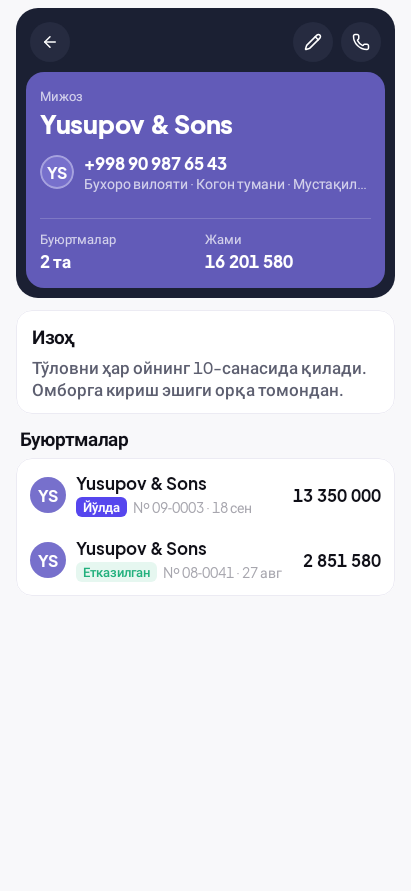
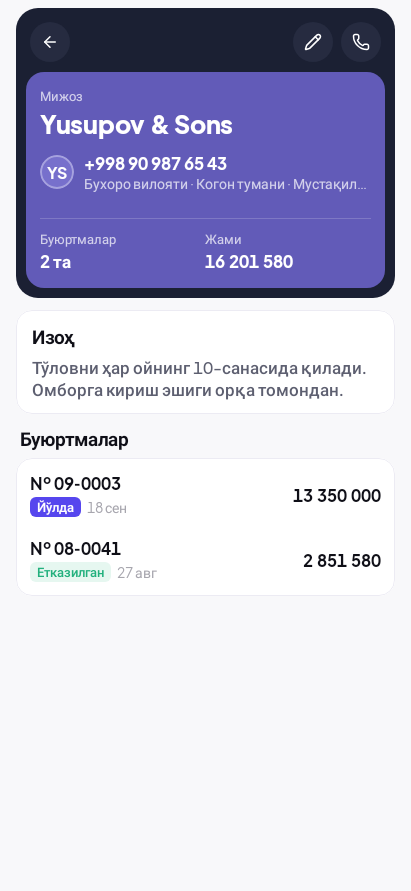
Feat(android) · client detail shows the server's totals; order rows lead with the number
`GET /api/clients/{id}` now carries `totalBooked` and `orderCount`, so the
panel's «Буюртмалар N · Жами» is the server's figure over EVERY order the
client has rather than a fold over the 20 the route sends — the two used to
disagree with the list row the operator had just tapped. Both are nullable
end to end: a server older than the fields sends neither, and the panel then
falls back onto the capped list (pinned by its own test) instead of claiming
a zero total.

Under a client's own panel the order rows repeated that client's name and
avatar four times over, which told nobody anything. `OrderRow` gains
`showAvatar` (defaulted true, so every other caller is byte-identical) and
the rows now lead with «№ 09‑0003», the date as the meta.

Baselines: client_detail_light / _font13 re-recorded for the new rows;
client_detail_offline_light (greyed pencil + «Оффлайн» notice) and
client_detail_no_orders_light («Буюртма йўқ») added; ds_detail_panel_actions
added for DetailPanel's `actions` slot with and without `onCall`.

Changed region(s): [[0.0584, 0.5152, 0.5547, 0.6667], [0.5255, 0.5455, 0.6131, 0.5758], [0.6131, 0.6364, 0.6715, 0.6667]]

diff --git a/android/feature/clients/src/main/kotlin/uz/etalon/crm/feature/clients/detail/ClientDetailScreen.kt b/android/feature/clients/src/main/kotlin/uz/etalon/crm/feature/clients/detail/ClientDetailScreen.kt
@@ -54,9 +54,9 @@ import java.time.Instant
  *  list keep, which puts an avatar 14 dp from the card's edge. */
 private val ROW_INSET = 6.dp
 
-/** A section title sits 4 dp inside the card below it, the relationship Home draws between
- *  «Сўнгги буюртмалар» and its card (headerMargin 20 over cardMargin 16). */
-private val TITLE_INSET = 4.dp
+/** A section title sits one [EtalonSpace.xs] inside the card below it, the relationship Home draws
+ *  between «Сўнгги буюртмалар» and its card (headerMargin 20 over cardMargin 16). */
+private val TITLE_INSET = EtalonSpace.xs
 
 @Composable
 fun ClientDetailRoute(
@@ -71,8 +71,10 @@ fun ClientDetailRoute(
     ClientDetailScreen(
         s = s,
         // Read here rather than inside the screen so a frame can pin the day it is drawn on —
-        // `formatScheduleDate` drops the year only for the CURRENT one.
-        now = Instant.now(),
+        // `formatScheduleDate` drops the year only for the CURRENT one. `remember`ed so a
+        // recomposition (a refresh, the edit sheet opening) cannot silently redate the rows
+        // mid-screen; the route is rebuilt on every visit, which is often enough.
+        now = remember { Instant.now() },
         onBack = onBack,
         onRefresh = vm::refresh,
         onOpenOrder = onOpenOrder,
@@ -169,8 +171,11 @@ fun ClientDetailScreen(
  * so the circle is the one the clients list drew for this row a tap ago; a phone has no letters to
  * make initials from.
  *
- * The footer is two columns, not three: «Буюртмалар» and «Жами». The sum is a [Money] fold over
- * the order lines — never a `Double`, and never a figure the server did not send.
+ * The footer is two columns, not three: «Буюртмалар» and «Жами», both of them the SERVER's
+ * aggregates over every order this client has. Never a fold over [ClientDetail.orders]: the route
+ * caps that list at the 20 most recent, so a local sum would quietly disagree with the same
+ * client's row in the list — the figure an operator saw one tap ago. The fold is kept only as the
+ * fallback for a server too old to send them, where a truncated figure beats no figure at all.
  */
 @Composable
 private fun Panel(
@@ -189,12 +194,12 @@ private fun Panel(
     totals = {
         PanelTotal(
             stringResource(R.string.client_orders_section),
-            formatCount(client.orders.size),
+            formatCount(client.orderCount ?: client.orders.size),
             modifier = Modifier.weight(1f),
         )
         PanelTotal(
             stringResource(R.string.client_total_label),
-            formatMoney(client.orders.fold(Money.ZERO) { acc, o -> acc + o.totalPrice }),
+            formatMoney(client.totalBooked ?: client.orders.fold(Money.ZERO) { acc, o -> acc + o.totalPrice }),
             modifier = Modifier.weight(1f),
         )
     },
@@ -272,17 +277,21 @@ private fun OrdersCard(
         } else {
             client.orders.forEach { line ->
                 OrderRow(
-                    // The row's title slot is the customer — that is what gives it its avatar and
-                    // its colour. The order's own identity is the first half of the meta line.
-                    clientName = client.name,
+                    // Under a client's OWN panel every row belongs to the same customer, so the
+                    // name and its avatar would be the same four times over and tell an operator
+                    // nothing. The row leads with the one thing that differs — the order number —
+                    // and the avatar goes with it (`showAvatar = false`), since a circle of the
+                    // client's initials repeated down the card distinguishes no row from any other.
+                    clientName = formatOrderNo(line.orderNumber),
                     status = line.status,
-                    metaLine = "${formatOrderNo(line.orderNumber)} · ${formatScheduleDate(line.scheduledAt, now)}",
+                    metaLine = formatScheduleDate(line.scheduledAt, now),
                     total = line.totalPrice,
                     debt = null,
                     paidLabel = null,
                     debtLabel = { formatMoney(it) },
                     onDark = false,
                     onClick = { onOpenOrder(line.id) },
+                    showAvatar = false,
                 )
             }
         }

diff --git a/android/feature/clients/src/test/kotlin/uz/etalon/crm/feature/clients/ClientDetailScreenshotTest.kt b/android/feature/clients/src/test/kotlin/uz/etalon/crm/feature/clients/ClientDetailScreenshotTest.kt
@@ -3,6 +3,7 @@ package uz.etalon.crm.feature.clients
 import androidx.compose.runtime.Composable
 import androidx.compose.runtime.CompositionLocalProvider
 import androidx.compose.ui.test.junit4.createComposeRule
+import androidx.compose.ui.test.onNodeWithText
 import androidx.compose.ui.test.onRoot
 import androidx.compose.ui.unit.dp
 import com.github.takahirom.roborazzi.captureRoboImage
@@ -14,10 +15,13 @@ import org.robolectric.annotation.Config
 import org.robolectric.annotation.GraphicsMode
 import uz.etalon.crm.core.designsystem.components.LocalNavPillInset
 import uz.etalon.crm.core.designsystem.theme.EtalonTheme
+import uz.etalon.crm.core.model.AppError
 import uz.etalon.crm.core.model.ClientDetail
 import uz.etalon.crm.core.model.ClientOrderLine
 import uz.etalon.crm.core.model.Money
 import uz.etalon.crm.core.model.OrderStatus
+import uz.etalon.crm.core.ui.format.formatCount
+import uz.etalon.crm.core.ui.format.formatMoney
 import uz.etalon.crm.feature.clients.detail.ClientDetailScreen
 import uz.etalon.crm.feature.clients.detail.ClientDetailUiState
 import java.time.Instant
@@ -64,11 +68,25 @@ class ClientDetailScreenshotTest {
                 totalPrice = Money.parse("2851580.00"), scheduledAt = at("2026-08-27T04:00:00Z"),
             ),
         ),
+        // The server's own aggregates — here the same two orders the list row counted, which is
+        // what makes these frames comparable with `2b-clients.png`'s third row.
+        totalBooked = Money.parse("16201580.00"),
+        orderCount = 2,
     )
 
     private fun loaded() = ClientDetailUiState(
         client = client, loading = false,
         canEdit = true, permissionsResolved = true,
+    )
+
+    /** `PATCH /api/clients/{id}` cannot be queued, so offline the pencil is greyed AND the reason
+     *  is said out loud under the panel — §5.1a's disabled-with-a-reason rule. */
+    private fun offline() = loaded().copy(lastRefreshError = AppError.Network("Интернет йўқ"))
+
+    /** A customer on file who has never ordered: «Буюртма йўқ», not an empty card and not the
+     *  error banner, which is what "we could not read them" looks like instead. */
+    private fun noOrders() = loaded().copy(
+        client = client.copy(orders = emptyList(), totalBooked = Money.ZERO, orderCount = 0),
     )
 
     private fun shoot(name: String, s: ClientDetailUiState) {
@@ -87,4 +105,31 @@ class ClientDetailScreenshotTest {
 
     @Test @Config(qualifiers = "w411dp-h891dp", fontScale = 1.3f)
     fun largeFont() = shoot("client_detail_font13", loaded())
+
+    @Test @Config(qualifiers = "w411dp-h891dp")
+    fun offlineLight() = shoot("client_detail_offline_light", offline())
+
+    @Test @Config(qualifiers = "w411dp-h891dp")
+    fun noOrdersLight() = shoot("client_detail_no_orders_light", noOrders())
+
+    /**
+     * The route caps `orders` at the 20 most recent, so the panel must print the SERVER's
+     * aggregates and never a fold over what it was sent — otherwise a client with 41 orders reads
+     * as a client with 20, and the total disagrees with the row the operator tapped a moment ago.
+     */
+    @Test @Config(qualifiers = "w411dp-h891dp") fun totalsAreTheServersNotTheCappedList() {
+        val big = client.copy(totalBooked = Money.parse("96400000.00"), orderCount = 41)
+        rule.setContent { EtalonTheme { Detail(loaded().copy(client = big)) } }
+        rule.onNodeWithText(formatCount(41)).assertExists()
+        rule.onNodeWithText(formatMoney(Money.parse("96400000.00"))).assertExists()
+    }
+
+    /** An older server sends neither figure. The panel then falls back onto the capped list — a
+     *  truncated figure beats a blank one — which is exactly what this pins. */
+    @Test @Config(qualifiers = "w411dp-h891dp") fun olderServerFallsBackToTheCappedList() {
+        val old = client.copy(totalBooked = null, orderCount = null)
+        rule.setContent { EtalonTheme { Detail(loaded().copy(client = old)) } }
+        rule.onNodeWithText(formatCount(2)).assertExists()
+        rule.onNodeWithText(formatMoney(Money.parse("16201580.00"))).assertExists()
+    }
 }

diff --git a/android/core/designsystem/src/test/kotlin/uz/etalon/crm/core/designsystem/DetailPanelScreenshotTest.kt b/android/core/designsystem/src/test/kotlin/uz/etalon/crm/core/designsystem/DetailPanelScreenshotTest.kt
@@ -25,10 +25,12 @@ import org.robolectric.annotation.Config
 import org.robolectric.annotation.GraphicsMode
 import uz.etalon.crm.core.designsystem.components.AddTile
 import uz.etalon.crm.core.designsystem.components.DetailPanel
+import uz.etalon.crm.core.designsystem.components.EtalonIconButton
 import uz.etalon.crm.core.designsystem.components.PanelTotal
 import uz.etalon.crm.core.designsystem.components.RoomTile
 import uz.etalon.crm.core.designsystem.components.StatusTag
 import uz.etalon.crm.core.designsystem.components.TagSurface
+import uz.etalon.crm.core.designsystem.icon.EtalonIcons
 import uz.etalon.crm.core.designsystem.theme.EtalonColors
 import uz.etalon.crm.core.designsystem.theme.EtalonSpace
 import uz.etalon.crm.core.designsystem.theme.EtalonTheme
@@ -103,6 +105,18 @@ class DetailPanelScreenshotTest {
     }
 
     /**
+     * The `actions` slot, which the client detail is the first screen to use: an extra icon button
+     * to the LEFT of the call button, and the same panel with `onCall = null` so the header row
+     * proves it closes up rather than leaving a hole where the call button was. The enabled and
+     * disabled pencil are both in the frame — «disabled» is a state this app shows rather than
+     * hides, so it has to be legible on navy.
+     */
+    @Test fun detailPanelActionsLight() {
+        rule.setContent { EtalonTheme { ActionsSheet() } }
+        rule.onRoot().captureRoboImage("screenshots/ds_detail_panel_actions.png")
+    }
+
+    /**
      * The accessibility floor the totals have to survive: at 1.3× the three 13/700 figures are the
      * first thing in the panel to run out of column. `Density` is overridden rather than the
      * device's font setting so the check is exact and does not depend on Robolectric's config.
@@ -134,6 +148,40 @@ private fun PanelSheet() = Column(
     Panel(tileCount = 2)
     Caption("DetailPanel · 4 хона")
     Panel(tileCount = 4)
+}
+
+/** The client-detail shape: no status tag, no tiles, the phone in the `clientName` slot, the
+ *  client's own initials kept via `avatarName`, and a blank `dateLabel` (a client has no date). */
+@Composable
+private fun ActionsPanel(editEnabled: Boolean, onCall: (() -> Unit)?) = DetailPanel(
+    caption = "Мижоз",
+    headline = "Yusupov & Sons",
+    clientName = "+998 90 987 65 43",
+    addressLine = "Бухоро вилояти, Когон тумани, Мустақиллик кўчаси 4",
+    tiles = {},
+    totals = {
+        PanelTotal("Буюртмалар", "7 та", modifier = Modifier.weight(1f))
+        PanelTotal("Жами", formatMoney(Money.parse("41250000.00")), modifier = Modifier.weight(1f))
+    },
+    onBack = {},
+    dateLabel = "",
+    onCall = onCall,
+    actions = {
+        EtalonIconButton(EtalonIcons.Pencil, "Таҳрирлаш", onClick = {}, onDark = true, enabled = editEnabled)
+    },
+    avatarName = "Yusupov & Sons",
+    modifier = Modifier.padding(horizontal = EtalonSpace.cardMargin),
+)
+
+@Composable
+private fun ActionsSheet() = Column(
+    Modifier.fillMaxWidth().background(EtalonColors.page).padding(vertical = 16.dp),
+    verticalArrangement = Arrangement.spacedBy(14.dp),
+) {
+    Caption("actions + onCall")
+    ActionsPanel(editEnabled = true, onCall = {})
+    Caption("actions ўчирилган + onCall = null")
+    ActionsPanel(editEnabled = false, onCall = null)
 }
 
 @Composable

diff --git a/android/core/designsystem/src/main/kotlin/uz/etalon/crm/core/designsystem/components/OrderRow.kt b/android/core/designsystem/src/main/kotlin/uz/etalon/crm/core/designsystem/components/OrderRow.kt
@@ -55,6 +55,10 @@ import uz.etalon.crm.core.model.OrderStatus
  *   applies. Callers pass `debt = null, paidLabel = null` for that row.
  * @param debtLabel the caller's wording, e.g. `{ "қолди ${formatMoney(it)}" }`.
  * @param onDark the row sits inside a [NavySheet]; false is the white-card variant of `2b-home.png`.
+ * @param showAvatar false drops the 36 dp circle and closes the gap it left, for a list where the
+ *   avatar would be the SAME one on every row and so distinguishes nothing — a client's own order
+ *   list, where [clientName] carries the order number instead of a person. Defaulted true, so
+ *   every other caller draws exactly what it drew before.
  * @param trailing a second line under the amount for a row whose money says nothing more — the
  *   clients list's «1 буюртма» (§3.6), where the figure above is the client's lifetime total and
  *   there is no debt or paid state to word. It is drawn only where [debt] and [paidLabel] leave the
@@ -77,6 +81,7 @@ fun OrderRow(
     onDark: Boolean = true,
     onClick: () -> Unit,
     modifier: Modifier = Modifier,
+    showAvatar: Boolean = true,
     trailing: (@Composable ColumnScope.() -> Unit)? = null,
 ) {
     // Zero and null are the same state — settled — and neither may reach [debtLabel].
@@ -106,8 +111,10 @@ fun OrderRow(
             .padding(horizontal = EtalonSpace.rowPadH, vertical = EtalonSpace.rowPadV),
         verticalAlignment = Alignment.CenterVertically,
     ) {
-        Avatar(clientName, size = 36.dp)
-        Spacer(Modifier.width(EtalonSpace.rowGap))
+        if (showAvatar) {
+            Avatar(clientName, size = 36.dp)
+            Spacer(Modifier.width(EtalonSpace.rowGap))
+        }
         Column(Modifier.weight(1f)) {
             Text(
                 clientName,

diff --git a/android/core/network/src/test/kotlin/uz/etalon/crm/core/network/ClientApiTest.kt b/android/core/network/src/test/kotlin/uz/etalon/crm/core/network/ClientApiTest.kt
@@ -70,6 +70,28 @@ class ClientApiTest {
         assertEquals(java.math.BigDecimal.ZERO, page.rows[0].totalBooked)
     }
 
+    /** `GET /api/clients/{id}` carries the client's real figures beside its capped `orders` —
+     *  `totalBooked` as a bare JSON number, `orderCount` as a plain int. */
+    @Test fun `client detail decodes the server's total and order count`() = runTest {
+        server.enqueue(ok(
+            """{"ok":true,"data":{"id":"c1","name":"Client","phone":"998901112233","totalBooked":96400000,
+              |"orderCount":41,"orders":[]}}"""
+                .trimMargin().replace("\n", ""),
+        ))
+        val detail = api.client("c1")
+        assertEquals(java.math.BigDecimal("96400000"), detail.totalBooked)
+        assertEquals(41, detail.orderCount)
+    }
+
+    /** A server older than those two fields sends neither. They stay NULL rather than defaulting
+     *  to zero: a zero total would be a claim that this customer has booked nothing. */
+    @Test fun `client detail from an older server leaves both aggregates null`() = runTest {
+        server.enqueue(ok("""{"ok":true,"data":{"id":"c1","name":"Client","phone":"998901112233","orders":[]}}"""))
+        val detail = api.client("c1")
+        assertNull(detail.totalBooked)
+        assertNull(detail.orderCount)
+    }
+
     /** `sortBy=totalBooked&sortDir=desc` — the whitelist `CLIENT_SORT_FIELDS` in
      *  `src/app/api/clients/route.ts` enforces, sent only when a caller asks for it. */
     @Test fun `clients sends sortBy and sortDir only when given`() = runTest {

diff --git a/android/core/model/src/main/kotlin/uz/etalon/crm/core/model/Client.kt b/android/core/model/src/main/kotlin/uz/etalon/crm/core/model/Client.kt
@@ -31,7 +31,15 @@ data class ClientOrderLine(
     val scheduledAt: Instant,
 )
 
-/** GET /api/clients/{id}. */
+/**
+ * GET /api/clients/{id}.
+ *
+ * **[orders] is CAPPED** at the 20 most recent by the route, so neither its size nor a fold over
+ * it is this client's figure — [orderCount] and [totalBooked] are, because the server computes
+ * them over every order the client has. The two aggregates are nullable only because a server
+ * older than them sends neither; a screen that has to fall back onto [orders] is showing a
+ * truncated figure and should not pretend otherwise.
+ */
 data class ClientDetail(
     val id: String,
     val name: String,
@@ -39,6 +47,11 @@ data class ClientDetail(
     val address: String?,
     val notes: String?,
     val orders: List<ClientOrderLine>,
+    /** Whole-UZS sum of the client's live (non-cancelled/non-draft) order totals, over ALL their
+     *  orders — the same figure [ClientSummary.totalBooked] carries in the list. */
+    val totalBooked: Money? = null,
+    /** How many orders this client has in total, uncapped. */
+    val orderCount: Int? = null,
 )
 
 /**

diff --git a/android/core/network/src/main/kotlin/uz/etalon/crm/core/network/dto/ClientDto.kt b/android/core/network/src/main/kotlin/uz/etalon/crm/core/network/dto/ClientDto.kt
@@ -76,6 +76,17 @@ data class ClientDetailDto(
     val address: String? = null,
     val notes: String? = null,
     val orders: List<ClientOrderLineDto> = emptyList(),
+    /**
+     * Whole-UZS sum of the client's live (non-CANCELED/non-DRAFT) order totals over ALL their
+     * orders — `totalForClient` in `src/lib/client-totals.ts`, the same rule the list rows carry.
+     * A bare JSON number. **Null from a server older than that field**, which is the only reason
+     * this is nullable: [orders] is capped at the 20 most recent, so a sum over it is not the
+     * client's total and the difference must stay visible to the mapper.
+     */
+    @Serializable(with = BigDecimalSerializer::class) val totalBooked: BigDecimal? = null,
+    /** How many orders this client has, uncapped. Null from an older server — [orders] is capped
+     *  at 20, so its size is a floor and never the count. */
+    val orderCount: Int? = null,
 )
 
 /** Body of `POST /api/clients` (`ClientCreateSchema`) and `PATCH /api/clients/{id}`

diff --git a/android/core/data/src/main/kotlin/uz/etalon/crm/core/data/mapper/ClientMappers.kt b/android/core/data/src/main/kotlin/uz/etalon/crm/core/data/mapper/ClientMappers.kt
@@ -51,7 +51,11 @@ fun ClientOrderLineDto.toDomain() = ClientOrderLine(
     totalPrice = Money.parse(totalPrice), scheduledAt = Instant.parse(scheduledAt),
 )
 
+/** The two aggregates stay NULL when the response carried none — an older server — so the screen
+ *  can tell "this client has booked nothing" from "this server cannot say". */
 fun ClientDetailDto.toDomain() = ClientDetail(
     id = id, name = name, phone = phone, address = address, notes = notes,
     orders = orders.map { it.toDomain() },
+    totalBooked = totalBooked?.let { Money(it) },
+    orderCount = orderCount,
 )
